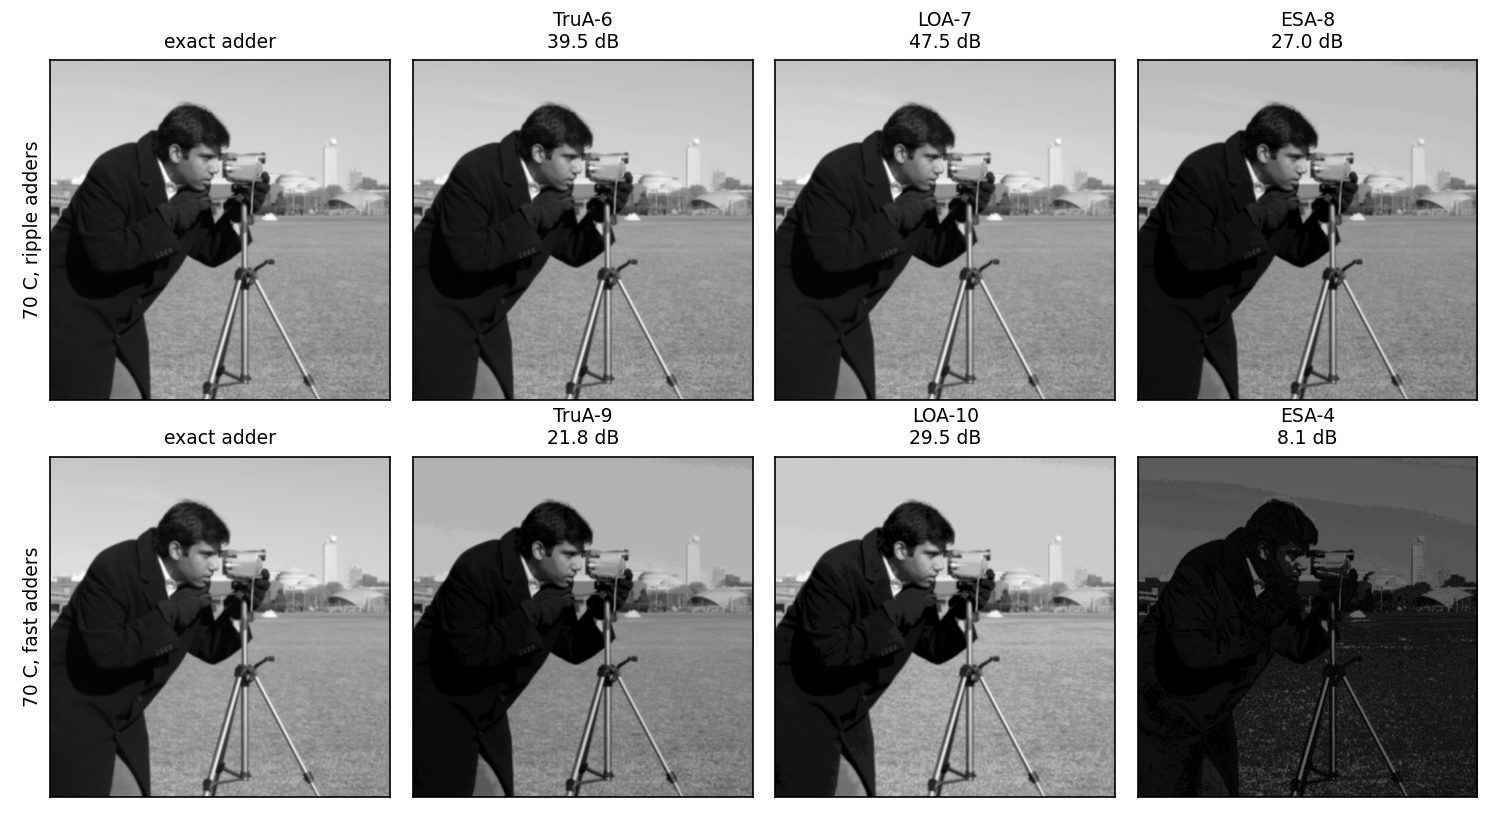
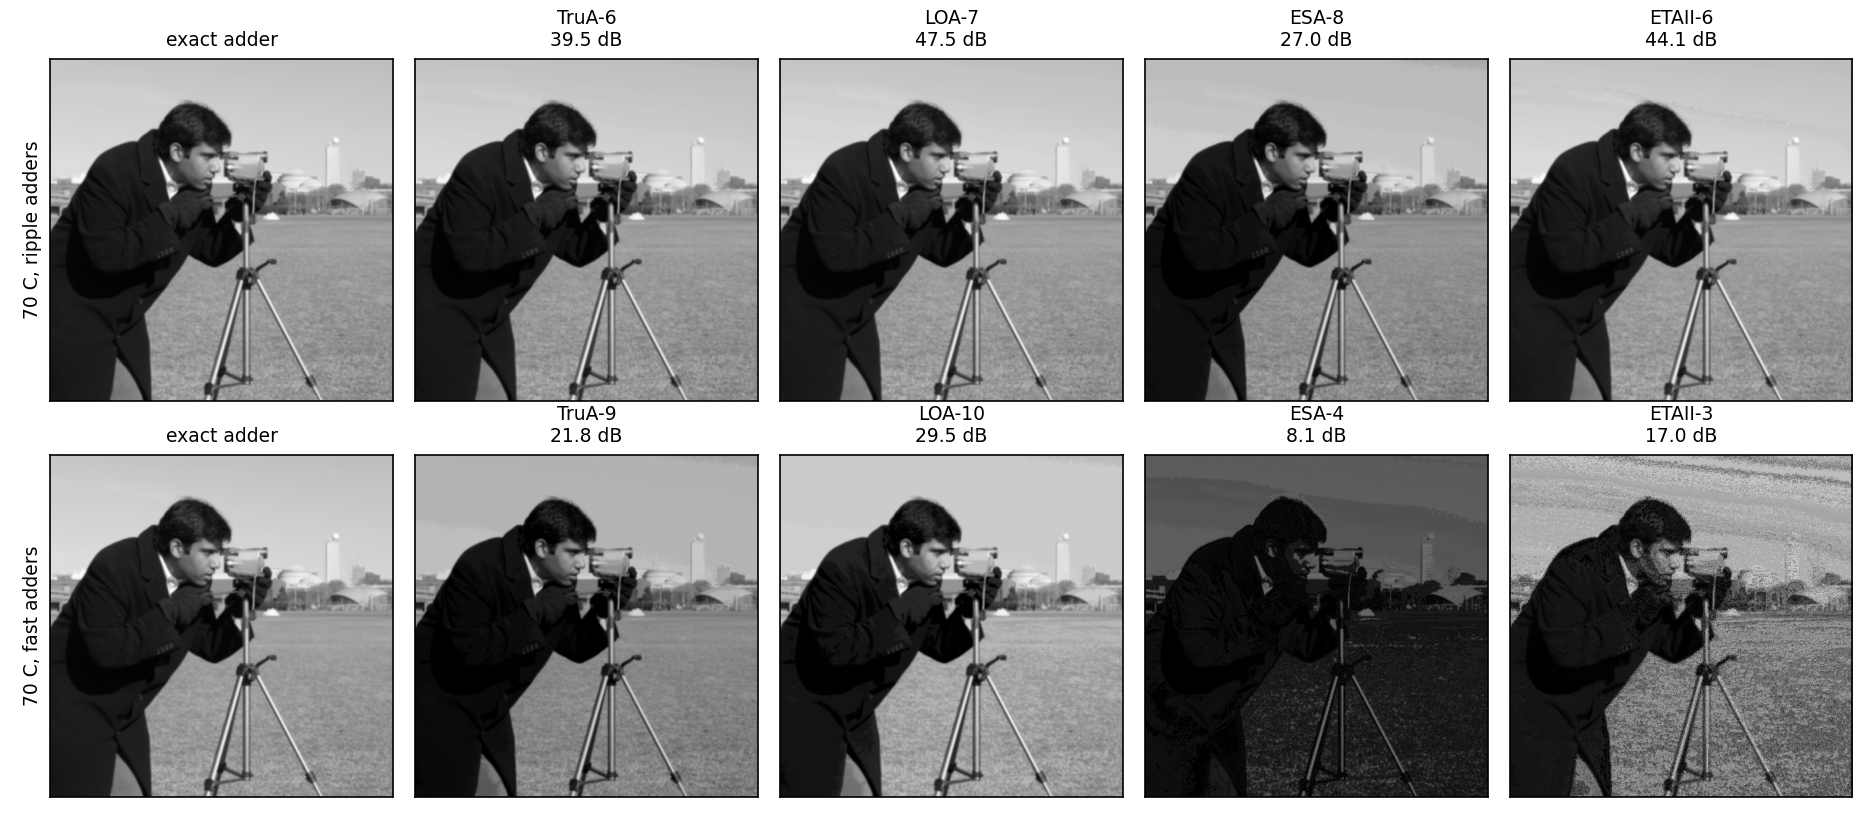
ETAII adder validated against the paper

diff --git a/m2_report.py b/m2_report.py
@@ -1,0 +1,81 @@
+# m2_report.py - Milestone M2: the delay-vs-error picture and the results table.
+# Run with:  python3 m2_report.py      (after timing_sweep.py and derate.py)
+import csv
+import matplotlib
+matplotlib.use("Agg")
+import matplotlib.pyplot as plt
+
+SERIES = [("trua", "TruA-k (truncation)", "#2a78d6", "o"),
+          ("loa",  "LOA-k (lower-part OR)", "#eb6834", "s"),
+          ("esa",  "ESA-s (segmentation)", "#1baf7a", "^"),
+          ("etaii", "ETAII-k (error-tolerant II)", "#8b5cf6", "D")]     # Day 19
+INK, MUTED = "#1b1f27", "#5a6472"
+
+delay = {(r["design"], int(r["k"])): float(r["delay_ps"]) for r in csv.DictReader(open("delay.csv"))}
+mse = {(r["design"], int(r["k"])): float(r["MSE"]) for r in csv.DictReader(open("results.csv"))}
+picks = list(csv.DictReader(open("picks.csv")))
+timer = next(csv.DictReader(open("delay.csv")))["timer"]
+d0 = delay[("exact", 0)]
+
+fig, ax = plt.subplots(figsize=(9.5, 5.6))
+for fam, label, color, marker in SERIES:
+    pts = sorted((delay[(f, k)], mse[(f, k)]) for (f, k) in delay if f == fam and (f, k) in mse)
+    ax.scatter([p[0] for p in pts], [p[1] for p in pts], s=46, marker=marker, color=color,
+               edgecolor="white", linewidth=0.8, label=label, zorder=3)
+
+# the timing budgets: an adder must sit LEFT of a line to meet that scenario
+lines = [(d0, "accurate adder, fresh")]
+for scenario, factor in sorted({(p["scenario"], p["factor"]) for p in picks}, key=lambda t: float(t[1])):
+    lines.append((d0 / float(factor), f"budget: {scenario}"))
+top = max(mse.values()) * 30
+for x, text in lines:
+    ax.axvline(x, color=MUTED, linewidth=1, linestyle="--", zorder=1)
+    ax.text(x - 4, top, text, rotation=90, va="top", ha="right", fontsize=8.5, color=MUTED)
+
+# label only the chosen designs (each once), with a thin leader line
+seen = set()
+for p in picks:
+    key = (p["design"], int(p["k"]))
+    if key in seen:
+        continue
+    seen.add(key)
+    name = {"trua": "TruA", "loa": "LOA", "esa": "ESA", "etaii": "ETAII"}[p["design"]] + "-" + p["k"]
+    # TruA labels go above-left, ETAII above-right, the others below-left
+    offset, align = {"trua": ((-26, 26), "right"), "etaii": ((22, 22), "left")}.get(p["design"], ((-30, -26), "right"))
+    ax.annotate(name, (delay[key], mse[key]), textcoords="offset points",
+                xytext=offset, ha=align, fontsize=8.5, color=INK,
+                arrowprops=dict(arrowstyle="-", color=MUTED, linewidth=0.7, shrinkB=4))
+
+ax.set_yscale("log")
+ax.set_ylim(top=top)
+ax.set_xlabel(f"fresh critical-path delay (ps), timer: {timer}", color=INK)
+ax.set_ylabel("MSE (log scale), lower is better", color=INK)
+ax.set_title("16-bit adders: error vs. delay (left of a dashed line = meets that timing budget)",
+             fontsize=10.5, color=INK, loc="left")
+ax.grid(True, which="major", color="#e3e6ea", linewidth=0.7, zorder=0)
+for side in ("top", "right"):
+    ax.spines[side].set_visible(False)
+ax.tick_params(colors=MUTED)
+ax.legend(loc="lower left", frameon=False, fontsize=9)
+plt.tight_layout()
+plt.savefig("delay_vs_mse.png", dpi=150)
+print("saved delay_vs_mse.png")
+
+# ---- m2.md: the table for the Nov 19 update and the slides ----
+out = ["# Milestone M2: is truncation the best way to remove a timing guard-band?\n",
+       f"Accurate 16-bit ripple-carry adder, fresh: {d0:.1f} ps (timer: {timer}, Nangate 45 nm).\n",
+       "Model: slowed delay = fresh delay x factor. A design meets timing if its slowed delay "
+       "is at most the fresh accurate delay.\n",
+       "| Scenario | Factor | Budget (ps) | Pick | Fresh (ps) | Slowed (ps) | ER % | MRED | MSE | Area (um^2) |",
+       "|---|---|---|---|---|---|---|---|---|---|"]
+for p in picks:
+    name = {"trua": "TruA", "loa": "LOA", "esa": "ESA", "etaii": "ETAII"}[p["design"]] + "-" + p["k"]
+    out.append(f"| {p['scenario']} | {p['factor']} | {p['budget_ps']} | {name} | {p['fresh_ps']} | "
+               f"{p['slowed_ps']} | {float(p['ER_percent']):.2f} | {float(p['MRED']):.2e} | "
+               f"{float(p['MSE']):.4g} | {float(p['area_um2']):.1f} |")
+out += ["\n![delay vs MSE](delay_vs_mse.png)\n", "## Verdict\n",
+        "(Write two sentences here: is truncation the best choice? Use the numbers above.)\n",
+        "## Limitations\n",
+        "(Uniform derating, open-source tools, one library, ripple-carry baseline, no power. See the guide.)\n"]
+open("m2.md", "w").write("\n".join(out) + "\n")
+print("wrote m2.md")

diff --git a/evaluate.c b/evaluate.c
@@ -5,6 +5,7 @@
  * Run:    ./evaluate trua 5      (truncated adder, k = 5)
  *         ./evaluate loa 6       (lower-part-OR adder, k = 6)
  *         ./evaluate esa 8       (equal-segmentation adder, segment size 8)
+ *         ./evaluate etaii 6     (error-tolerant adder II, block size 6; added on Day 19)
  * Prints one line:  design,k,ER_percent,MED,NMED,MRED,MSE
  */
 #include <stdio.h>
@@ -43,15 +44,40 @@ static uint32_t esa(uint32_t a, uint32_t b, int s) {
     return result;
 }
 
+/* ETAII-k (Day 19): k-bit blocks lined up with the TOP of the adder (the bottom block is the
+ * short one). Each block's carry-in is predicted from the block below it alone, as if that
+ * block had no carry-in. Same rule as etaii() in golden.py. */
+static uint32_t etaii(uint32_t a, uint32_t b, int k) {
+    int lo[16], w[16], n = 0, hi = WIDTH;
+    while (hi > 0) {                          /* blocks from the top down */
+        int l = (hi - k > 0) ? hi - k : 0;
+        lo[n] = l; w[n] = hi - l; n++; hi = l;
+    }
+    uint32_t result = 0;
+    for (int j = n - 1; j >= 0; j--) {        /* j = n-1 is the lowest block */
+        uint32_t mask = (1u << w[j]) - 1u;
+        uint32_t cin = 0;
+        if (j < n - 1) {                      /* predicted carry from the block below */
+            uint32_t pm = (1u << w[j + 1]) - 1u;
+            cin = ((((a >> lo[j + 1]) & pm) + ((b >> lo[j + 1]) & pm)) >> w[j + 1]) & 1u;
+        }
+        uint32_t total = ((a >> lo[j]) & mask) + ((b >> lo[j]) & mask) + cin;
+        if (j > 0) total &= mask;             /* only the top block (j = 0) keeps its carry-out */
+        result |= total << lo[j];
+    }
+    return result;
+}
+
 int main(int argc, char **argv) {
     if (argc != 3) {
-        fprintf(stderr, "usage: %s trua|loa|esa K\n", argv[0]);
+        fprintf(stderr, "usage: %s trua|loa|esa|etaii K\n", argv[0]);
         return 1;
     }
     int type;
     if (strcmp(argv[1], "trua") == 0)     type = 0;
     else if (strcmp(argv[1], "loa") == 0) type = 1;
     else if (strcmp(argv[1], "esa") == 0) type = 2;
+    else if (strcmp(argv[1], "etaii") == 0) type = 3;
     else { fprintf(stderr, "unknown design '%s'\n", argv[1]); return 1; }
     int k = atoi(argv[2]);
     if (k < 1 || k > 15) { fprintf(stderr, "K must be 1..15\n"); return 1; }
@@ -68,7 +94,8 @@ int main(int argc, char **argv) {
             uint32_t y = (uint32_t)a + b;                       /* exact sum  */
             uint32_t yh = (type == 0) ? trua((uint32_t)a, b, k)
                         : (type == 1) ? loa((uint32_t)a, b, k)
-                        :               esa((uint32_t)a, b, k); /* approx sum */
+                        : (type == 2) ? esa((uint32_t)a, b, k)
+                        :               etaii((uint32_t)a, b, k); /* approx sum */
             double ed = fabs((double)yh - (double)y);           /* error distance */
             if (ed > 0.0) w++;
             ed_sum += ed;

diff --git a/golden.py b/golden.py
@@ -46,3 +46,68 @@ def esa(a, b, s):
         result = result | (total << pos)
         pos += bits
     return result
+
+
+def etaii_blocks(k):
+    """ETAII block boundaries as (low bit, high bit) pairs, lowest block first.
+    Blocks are k bits wide and line up with the TOP of the adder (bit 15);
+    if k does not divide 16, the BOTTOM block is the short one."""
+    blocks, hi = [], WIDTH
+    while hi > 0:
+        lo = max(hi - k, 0)
+        blocks.append((lo, hi))
+        hi = lo
+    return blocks[::-1]
+
+
+def etaii(a, b, k):
+    """Error-tolerant adder type II (ETAII), Day 19. Each k-bit block is added on its own.
+    Its carry-in is PREDICTED from the block just below it only, as if that block had
+    no carry coming in. So a carry can travel through at most two blocks."""
+    blocks = etaii_blocks(k)
+    result = 0
+    for j, (lo, hi) in enumerate(blocks):
+        mask = (1 << (hi - lo)) - 1
+        if j == 0:
+            cin = 0                                   # the lowest block really has no carry-in
+        else:
+            plo, phi = blocks[j - 1]                  # the block below
+            pmask = (1 << (phi - plo)) - 1
+            cin = ((((a >> plo) & pmask) + ((b >> plo) & pmask)) >> (phi - plo)) & 1
+        total = ((a >> lo) & mask) + ((b >> lo) & mask) + cin
+        if j < len(blocks) - 1:
+            total = total & mask                      # only the top block keeps its carry-out
+        result = result | (total << lo)
+    return result
+
+def etaii_blocks(k):
+    """ETAII block boundaries as (low bit, high bit) pairs, lowest block first.
+    Blocks are k bits wide and line up with the TOP of the adder (bit 15);
+    if k does not divide 16, the BOTTOM block is the short one."""
+    blocks, hi = [], WIDTH
+    while hi > 0:
+        lo = max(hi - k, 0)
+        blocks.append((lo, hi))
+        hi = lo
+    return blocks[::-1]
+
+
+def etaii(a, b, k):
+    """Error-tolerant adder type II (ETAII), Day 19. Each k-bit block is added on its own.
+    Its carry-in is PREDICTED from the block just below it only, as if that block had
+    no carry coming in. So a carry can travel through at most two blocks."""
+    blocks = etaii_blocks(k)
+    result = 0
+    for j, (lo, hi) in enumerate(blocks):
+        mask = (1 << (hi - lo)) - 1
+        if j == 0:
+            cin = 0                                   # the lowest block really has no carry-in
+        else:
+            plo, phi = blocks[j - 1]                  # the block below
+            pmask = (1 << (phi - plo)) - 1
+            cin = ((((a >> plo) & pmask) + ((b >> plo) & pmask)) >> (phi - plo)) & 1
+        total = ((a >> lo) & mask) + ((b >> lo) & mask) + cin
+        if j < len(blocks) - 1:
+            total = total & mask                      # only the top block keeps its carry-out
+        result = result | (total << lo)
+    return result

diff --git a/gen_etaii_vectors.py b/gen_etaii_vectors.py
@@ -1,0 +1,27 @@
+# gen_etaii_vectors.py - Day 19: test vectors for ETAII-2 to ETAII-8 (writes etaii_vectors.mem).
+# Run with:  python3 gen_etaii_vectors.py
+# Each line: a, b, then the expected 17-bit sum from golden.etaii for K = 2, 3, ..., 8.
+import random
+from golden import etaii
+
+NVEC = 100000                  # must match NVEC in tb_etaii.sv
+KS = list(range(2, 9))         # K = 2 to 8, in the same order as tb_etaii.sv
+random.seed(19)
+
+vectors = []
+corners = [0x0000, 0x0001, 0x000F, 0x0010, 0x003F, 0x03FF, 0x5555, 0x7FFF, 0x8000, 0xAAAA, 0xFFFF]
+vectors += [(a, b) for a in corners for b in corners]
+for length in range(1, 17):    # carry chains of every length, starting at every bit
+    for start in range(0, 17 - length):
+        a = ((1 << length) - 1) << start
+        vectors.append((a, 1 << start))
+while len(vectors) < NVEC:
+    vectors.append((random.getrandbits(16), random.getrandbits(16)))
+
+with open("etaii_vectors.mem", "w") as f:
+    for a, b in vectors[:NVEC]:
+        word = (a << 16) | b
+        for k in reversed(KS):                         # K = 2 ends up in the lowest bits
+            word = (word << 17) | etaii(a, b, k)
+        f.write(f"{word:038x}\n")                      # 32 + 7 x 17 = 151 bits = 38 hex digits
+print(f"wrote etaii_vectors.mem: {min(len(vectors), NVEC)} vectors x {len(KS)} designs")

diff --git a/m2.md b/m2.md
@@ -8,40 +8,20 @@ Model: slowed delay = fresh delay x factor. A design meets timing if its slowed 
 |---|---|---|---|---|---|---|---|---|---|
 | aging, 10 years | 1.08 | 489.4 | TruA-2 | 464.7 | 501.9 | 93.75 | 6.35e-05 | 11.5 | 81.7 |
 | aging, 10 years | 1.08 | 489.4 | LOA-3 | 464.7 | 501.9 | 57.81 | 2.91e-05 | 4 | 83.3 |
-| aging, 10 years | 1.08 | 489.4 | ESA-8 | 278.0 | 300.2 | 49.80 | 2.68e-03 | 3.264e+04 | 87.2 |
-| temperature, 70 C | 1.37 | 385.8 | TruA-6 | 337.6 | 462.5 | 99.98 | 1.33e-03 | 4652 | 57.2 |
+| aging, 10 years | 1.08 | 489.4 | ESA-8 | 273.2 | 295.1 | 49.80 | 2.68e-03 | 3.264e+04 | 87.2 |
+| aging, 10 years | 1.08 | 489.4 | ETAII-7 | 448.0 | 483.8 | 0.29 | 3.16e-05 | 768 | 98.2 |
+| temperature, 70 C | 1.37 | 385.8 | TruA-6 | 337.0 | 461.7 | 99.98 | 1.33e-03 | 4652 | 57.2 |
 | temperature, 70 C | 1.37 | 385.8 | LOA-7 | 337.0 | 461.7 | 86.65 | 5.04e-04 | 1024 | 63.0 |
-| temperature, 70 C | 1.37 | 385.8 | ESA-8 | 278.0 | 380.9 | 49.80 | 2.68e-03 | 3.264e+04 | 87.2 |
+| temperature, 70 C | 1.37 | 385.8 | ESA-8 | 273.2 | 374.3 | 49.80 | 2.68e-03 | 3.264e+04 | 87.2 |
+| temperature, 70 C | 1.37 | 385.8 | ETAII-6 | 354.6 | 485.8 | 0.73 | 1.58e-04 | 7680 | 98.4 |
 
 ![delay vs MSE](delay_vs_mse.png)
 
 ## Verdict
 
-At the same critical path delay,LOA gives about 2.9 times lower MSE for aging budget (LOA-3 at 4 against TruA-2 at 
-11.5) and 4.5 times lower for the 70 C budget (LOA-7 at 1024 against TruA-6 at 4652). Both designs shorten the exact 
-carry chain to the same length, but truncation throws the low bits away, while LOA keeps their OR and one guessed 
-carry, so the same speed buys less error.
+(Write two sentences here: is truncation the best choice? Use the numbers above.)
 
 ## Limitations
 
-Uniform derating: one factor (×1.08, ×1.37) applies to every gate. The paper used degradation-aware libraries where each cell ages differently,
-and the critical path itself can shift.
-Borrowed factors: the factors come from the paper’s technology, applied to a 45 nm open library.
-Open-source flow: Yosys, ABC and OpenSTA, not Synopsys Design Compiler and PrimeTime. One library, one corner, no wire delays, and assumed
-input drive and output load.
-Ripple-carry baseline: a faster exact adder might remove the need to approximate at all. Day 15 tests this.
-Scope: delay and error only. No power analysis, and 16-bit adders only.
-Counterpoint: truncation is the smallest design (about 9% less area than LOA at 70 °C), and segmentation has the lowest error rate.
-“Best” depends on which metric you weight.
-Compared with the paper: the paper needs TruA-5 or LOA-6 for aging and TruA-9 or LOA-10 for 70 °C. You need 2 or 3 bits, and 6 or 7. 
-A likely reason is that accurate adder is a plain ripple-carry chain, where delay falls almost in proportion to bits removed. 
-A faster exact adder would gain less per bit, so more bits would need to go.
+(Uniform derating, open-source tools, one library, ripple-carry baseline, no power. See the guide.)
 
-
-Is a faster exact adder the better fix? A faster exact adder does remove the guard-band if the clock was set by a ripple-carry adder: the fast 
-exact adder is 296 ps, and even at x1.37 it needs only 406 ps, well inside 528.5 ps, with zero error. It costs about 1.9x the area of 
-LOA-7 (121.8 against 63.0 square micrometres). But once the fast adder sets the clock, aging and heat slow it down too, the guard-band problem 
-comes back at 296 ps, and LOA again beats truncation (TruA-9 against LOA-10 at 70 C).
-
-Image-quality check (5x5 blur, mean PSNR over 10 images, 30 dB target): with ripple adders, every TruA and LOA pick passes 30 dB. With fast adders at 70 C, the timing picks are TruA-9 and LOA-10 (the same as the paper's Table IV), and neither reaches 30 dB: truncation gets 21.1 dB, LOA gets 29.3 dB, just short of the target. So LOA is about 8 dB better, with 4.6 times lower MSE, but the application target is only met by the milder slowdown cases. ESA fails in every case.
-With fast adders and mild 10-year aging, TruA-3 (MSE 59.5, 56.0 dB) and LOA-5 (MSE 64, 54.3 dB) are essentially tied and both pass 30 dB comfortably, so the difference between the two families only becomes decisive at large slowdowns.
